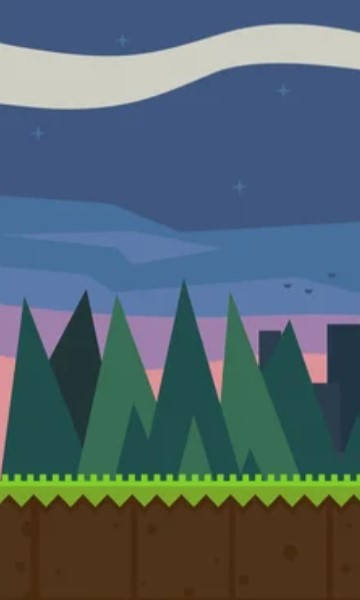
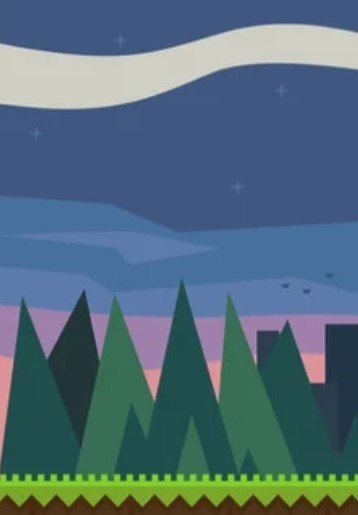
Update background

diff --git a/main.py b/main.py
@@ -8,6 +8,7 @@ pygame.init()
 
 window = pygame.display.set_mode((360, 600))
 background = pygame.image.load("img/fond.jpg")
+background = pygame.transform.scale(background, (370, 576))
 
 clock = pygame.time.Clock()
 running = True

diff --git a/src/floor.py b/src/floor.py
@@ -17,4 +17,4 @@ class Floor(pygame.sprite.Sprite):
     def move(self):
         self.rect.move_ip(self.speed, 0)
         if self.rect.right < 0:
-            self.rect.left = 330
+            self.rect.left = 340
